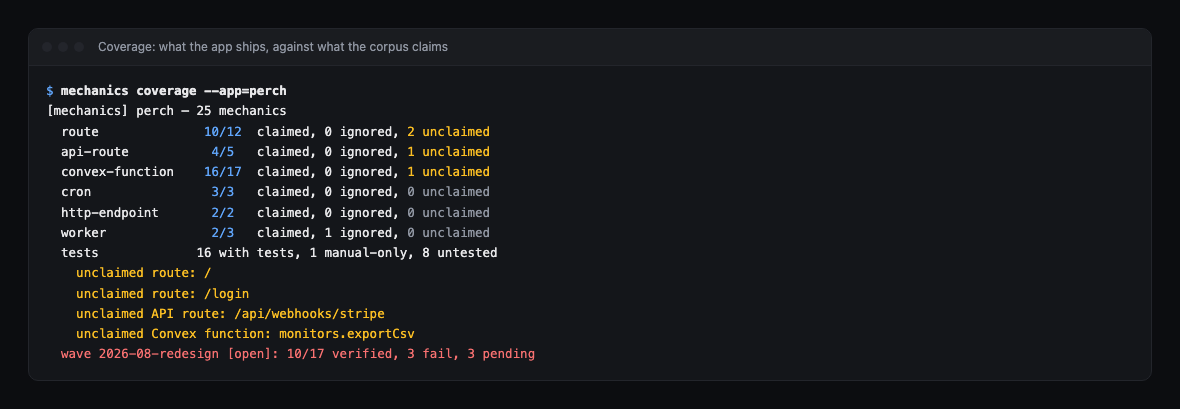
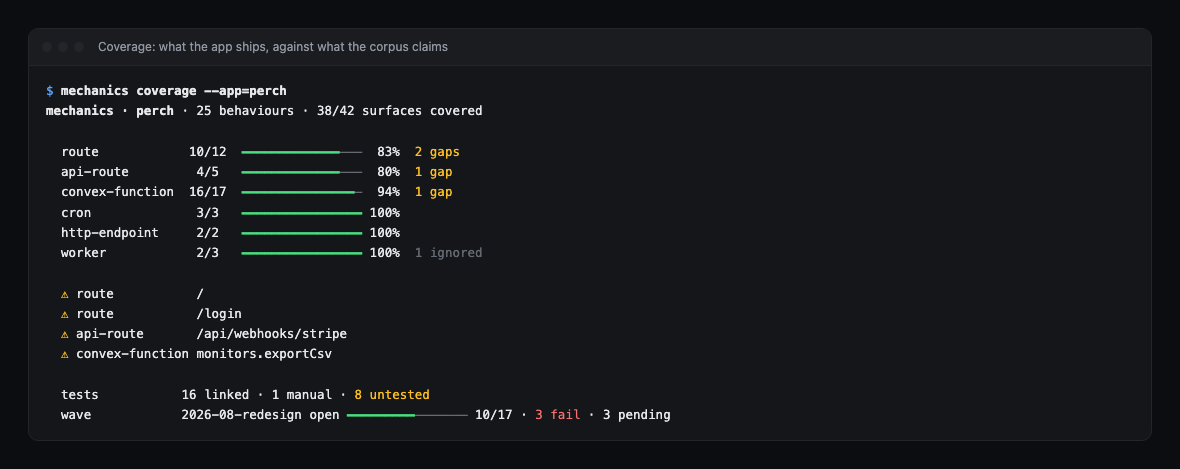
feat: redesign the coverage output, TUI and HTML (#4)
TUI — a bar and a percentage per surface kind, with each gap NAMED on its
own line instead of counted in a column. A count tells you a gap exists;
the name is the thing you act on, and needing a second command to see it
is why gaps get left.

The bar fills from claimed + IGNORED, matching the HTML report's
"covered" column. Filling from `claimed` alone would paint an explicitly
excused surface as a gap, which is the one thing the ignore list exists
to say it is not. The ratio beside it still counts claims, so a kind can
read `3/4` next to a full bar — the template test now pins that pairing,
because it looks like a bug until you know it is the point.

Colour is new, and off unless someone can see it: no TTY, `NO_COLOR`, or
`TERM=dumb` all yield plain text. `FORCE_COLOR` turns it back on for
callers piping deliberately; `NO_COLOR` beats it, since the user's opt
out should beat the program's opt in. No state is signalled by colour
alone — everything coloured also says what it is in words.

HTML — a summary band above the tables: one sentence stating what the
page concludes, then meters for the ratios it rests on. A reader arrives
asking whether the corpus is keeping up with the app, and the tables
answered that only after being read and summed. Clauses drop rather than
render as zeroes, and an app with no inventory gets different prose
instead of "100% of 0 surfaces" — the same lie the empty-bar rule
already existed to prevent.

Two things this turned up:
[…]

Changed region(s): [[0.0305, 0.176, 0.4576, 0.9095], [0.061, 0.088, 0.3966, 0.1467], [0.4576, 0.8802, 0.5797, 0.9095]]

diff --git a/cli.ts b/cli.ts
@@ -31,7 +31,12 @@ import { mapImpact } from "./impact";
 import { appDir, appPath } from "./layout";
 import { buildManifest, emitManifest, loadManifest, onboardedApps } from "./manifest";
 import { validateScreens } from "./screens";
-import type { MechanicsManifest, VerificationMethod, VerificationStatus } from "./types";
+import type {
+  CoverageBucket,
+  MechanicsManifest,
+  VerificationMethod,
+  VerificationStatus,
+} from "./types";
 import {
   applySpecResults,
   createSpecExecutor,
@@ -69,6 +74,33 @@ type Args = {
   html: boolean;
   out?: string;
 };
+
+/**
+ * Colour, only when someone is there to see it.
+ *
+ * Off when stdout is not a TTY, so a redirect, a pipe, or a CI log gets clean
+ * text — every test capture depends on that. `FORCE_COLOR` turns it back on
+ * for callers that are piping deliberately and can render the escapes anyway;
+ * `bun run docs:shots` uses it so the screenshots show the real terminal
+ * colours instead of a second guess at them.
+ *
+ * `NO_COLOR` wins over `FORCE_COLOR`: the convention is that the user's opt
+ * out beats the program's opt in.
+ *
+ * Colour never carries meaning on its own here — every state that is coloured
+ * also says what it is in words.
+ */
+const COLOUR =
+  process.env.NO_COLOR === undefined &&
+  process.env.TERM !== "dumb" &&
+  (process.env.FORCE_COLOR !== undefined || Boolean(process.stdout.isTTY));
+
+const paint = (code: string) => (s: string) => (COLOUR && s ? `[${code}m${s}[0m` : s);
+const bold = paint("1");
+const dim = paint("2");
+const red = paint("31");
+const green = paint("32");
+const yellow = paint("33");
 
 /**
  * Spellings that mean "print usage and succeed", not "run a command".
@@ -277,38 +309,95 @@ async function printDrift(slug: string, fresh: MechanicsManifest) {
 // coverage
 // ---------------------------------------------------------------------------
 
+/**
+ * A surface is accounted for if it is claimed OR explicitly ignored. Filling
+ * the bar from `claimed` alone would paint an excused surface as a gap, which
+ * is the one thing the ignore list exists to say it is not.
+ */
+function coveredCount(b: { claimed: number; ignored: number }): number {
+  return b.claimed + b.ignored;
+}
+
+/**
+ * Heavy rule for the covered span, light rule for what is left. Two glyphs of
+ * the same width, so the bar reads as one line rather than as a block of
+ * shading, and a terminal without colour still shows the split.
+ */
+function bar(n: number, d: number, width = 16): string {
+  const filled = d === 0 ? width : Math.round((n / d) * width);
+  return "━".repeat(filled) + "─".repeat(width - filled);
+}
+
 async function runCoverage(args: Args) {
   const slugs = await resolveSlugs(args);
   for (const slug of slugs) {
     const { manifest, errors } = await buildManifest(slug);
-    console.log(`[mechanics] ${slug} — ${manifest.mechanicCount} mechanics`);
+
     // Surfaces come from the app's adapters, so a project with a `worker` or
     // `migration` kind gets a row here without this file knowing about it.
-    for (const surface of manifest.surfaces) {
-      const b = manifest.coverage[surface.kind];
-      if (!b) continue;
+    const buckets = manifest.surfaces
+      .map((s) => ({ surface: s, b: manifest.coverage[s.kind] }))
+      .filter((r): r is { surface: (typeof manifest.surfaces)[number]; b: CoverageBucket } =>
+        Boolean(r.b)
+      );
+    const totals = buckets.reduce(
+      (a, r) => ({ covered: a.covered + coveredCount(r.b), total: a.total + r.b.total }),
+      { covered: 0, total: 0 }
+    );
+
+    console.log(
+      `${bold(`mechanics · ${slug}`)} · ${manifest.mechanicCount} behaviours · ${totals.covered}/${totals.total} surfaces covered`
+    );
+    console.log("");
+
+    const width = Math.max(9, ...buckets.map((r) => r.surface.kind.length));
+    for (const { surface, b } of buckets) {
+      const n = coveredCount(b);
+      const pct = b.total === 0 ? 100 : Math.round((n / b.total) * 100);
+      const note = b.unclaimed.length
+        ? yellow(`${b.unclaimed.length} gap${b.unclaimed.length === 1 ? "" : "s"}`)
+        : b.ignored
+          ? dim(`${b.ignored} ignored`)
+          : "";
       console.log(
-        `  ${surface.kind.padEnd(17)} ${String(b.claimed).padStart(3)}/${String(b.total).padEnd(3)} claimed, ${b.ignored} ignored, ${b.unclaimed.length} unclaimed`
+        `  ${surface.kind.padEnd(width)} ${String(b.claimed).padStart(3)}/${String(b.total).padEnd(3)} ${paintBar(n, b.total)} ${String(pct).padStart(3)}%  ${note}`.trimEnd()
       );
     }
-    console.log(
-      `  tests             ${manifest.testCoverage.withTests} with tests, ${manifest.testCoverage.manualOnly} manual-only, ${manifest.testCoverage.untested} untested`
+
+    // Named, one per line. A count tells you a gap exists; the name is what
+    // you act on, and needing a second command to see it is why gaps get left.
+    const gaps = buckets.flatMap(({ surface, b }) =>
+      b.unclaimed.map((item) => ({ kind: surface.kind, item }))
     );
-    for (const surface of manifest.surfaces) {
-      for (const item of manifest.coverage[surface.kind]?.unclaimed ?? []) {
-        console.log(`    unclaimed ${surface.label}: ${item}`);
-      }
+    if (gaps.length > 0) {
+      console.log("");
+      for (const g of gaps) console.log(`  ${yellow("⚠")} ${g.kind.padEnd(width)} ${g.item}`);
     }
-    for (const e of errors) console.log(`    (error) ${e}`);
+
+    console.log("");
+    const t = manifest.testCoverage;
+    console.log(
+      `  ${"tests".padEnd(width)} ${t.withTests} linked · ${t.manualOnly} manual · ${t.untested > 0 ? yellow(`${t.untested} untested`) : "0 untested"}`
+    );
 
     const { waves } = await loadWaves(slug);
     for (const wave of waves) {
       const s = summarizeWave(wave, manifest.mechanics);
+      const verified = s.counts.pass + s.counts["n-a"];
       console.log(
-        `  wave ${s.slug} [${s.status}]: ${s.counts.pass + s.counts["n-a"]}/${s.scopeSize} verified, ${s.counts.fail} fail, ${s.counts.pending} pending`
+        `  ${"wave".padEnd(width)} ${s.slug} ${s.status} ${paintBar(verified, s.scopeSize)} ${verified}/${s.scopeSize} · ${s.counts.fail > 0 ? red(`${s.counts.fail} fail`) : "0 fail"} · ${s.counts.pending} pending`
       );
     }
+
+    for (const e of errors) console.log(`  ${red("(error)")} ${e}`);
   }
+}
+
+/** Green for the covered span, dim for the remainder. */
+function paintBar(n: number, d: number): string {
+  const b = bar(n, d);
+  const cut = b.lastIndexOf("━") + 1;
+  return green(b.slice(0, cut)) + dim(b.slice(cut));
 }
 
 // ---------------------------------------------------------------------------

diff --git a/report.ts b/report.ts
@@ -80,6 +80,30 @@ td.num, th.num { text-align: right; font-variant-numeric: tabular-nums; }
 .bar.gap i { background: var(--warn); }
 /* Nothing to cover is not full coverage — an empty track says so. */
 .bar.empty { opacity: 0.45; }
+/* The summary band: the page's answer, above the page's evidence. */
+.band {
+  border: 1px solid var(--line); border-radius: 10px; background: var(--panel);
+  padding: 16px 18px 12px; margin-top: 14px;
+}
+.lede { margin: 0 0 14px; font-size: 15px; line-height: 1.5; max-width: 62ch; }
+.lede strong { font-weight: 650; }
+.meter-row {
+  display: grid; grid-template-columns: minmax(120px, 220px) 1fr 62px;
+  gap: 12px; align-items: center; padding: 4px 0; font-size: 12.5px;
+}
+.meter-l { color: var(--muted); }
+.meter {
+  display: block; height: 7px; border-radius: 4px; background: var(--line);
+  overflow: hidden;
+}
+.meter i { display: block; height: 100%; background: var(--ok); }
+.meter i.gap { background: var(--warn); }
+.meter.empty { opacity: 0.45; }
+.meter-n { text-align: right; color: var(--muted); }
+@media (max-width: 560px) {
+  .meter-row { grid-template-columns: 1fr 56px; }
+  .meter-row .meter { grid-column: 1 / -1; order: 3; }
+}
 .hint { font-weight: 400; text-transform: none; letter-spacing: 0; }
 .pill {
   display: inline-block; font-size: 11px; padding: 1px 7px; border-radius: 999px;
@@ -276,14 +300,81 @@ function wavesSection(app: ReportApp): string {
   </table></div>`;
 }
 
+/**
+ * The page's answer, before the page's evidence.
+ *
+ * A reader arrives with one question — is this corpus keeping up with the app?
+ * — and the tables below answer it only after they have been read and summed.
+ * The lede states it in words and the meters show the three ratios it rests
+ * on, so scrolling is what you do to check the claim rather than to find it.
+ *
+ * COVERED counts claimed + ignored: an explicitly excused surface is accounted
+ * for, and counting it as a gap would make the ignore list meaningless.
+ */
+function summaryBand(app: ReportApp): string {
+  const m = app.manifest;
+  const t = m.testCoverage;
+
+  const buckets = m.surfaces.map((s) => m.coverage[s.kind]).filter((b) => b !== undefined);
+  const totals = buckets.reduce(
+    (a, b) => ({ covered: a.covered + b.claimed + b.ignored, total: a.total + b.total }),
+    { covered: 0, total: 0 }
+  );
+  const gaps = buckets.reduce((n, b) => n + b.unclaimed.length, 0);
+  const pct = (n: number, d: number) => (d === 0 ? 100 : Math.round((n / d) * 100));
+
+  const open = app.waves
+    .map((w) => summarizeWave(w, m.mechanics))
+    .filter((s) => s.status === "open");
+  const failing = open.reduce((n, s) => n + s.counts.fail, 0);
+  const verified = open.reduce((n, s) => n + s.counts.pass + s.counts["n-a"], 0);
+  const inScope = open.reduce((n, s) => n + s.scopeSize, 0);
+
+  // Each clause is dropped rather than rendered as a zero: "0 gaps remain" is
+  // noise, and an app with no open wave should not be told about waves at all.
+  // An app with no inventory gets a different sentence entirely — "100% of 0
+  // surfaces" is the same lie the empty-bar rule exists to prevent.
+  const clauses = [
+    totals.total === 0
+      ? `<strong>${m.mechanicCount} behaviour${m.mechanicCount === 1 ? "" : "s"}</strong>, and no surface inventory to check them against.`
+      : `<strong>${m.mechanicCount} behaviour${m.mechanicCount === 1 ? "" : "s"}</strong> account for <strong>${pct(totals.covered, totals.total)}%</strong> of ${totals.total} shipped surface${totals.total === 1 ? "" : "s"}.`,
+    gaps > 0
+      ? `<span class="untested">${gaps} gap${gaps === 1 ? "" : "s"}</span> remain.`
+      : `Every surface is claimed or explicitly ignored.`,
+    open.length > 0
+      ? `${open.length === 1 ? "One wave is" : `${open.length} waves are`} open at <strong>${verified}/${inScope}</strong>${failing > 0 ? `, with <span class="st-fail">${failing} failing</span>` : ""}.`
+      : "",
+  ].filter(Boolean);
+
+  const meters: Array<[string, number, number]> = [
+    ["Surfaces covered", totals.covered, totals.total],
+    ["Behaviours with a linked test", t.withTests, m.mechanicCount],
+  ];
+  if (open.length > 0) meters.push(["Wave verified", verified, inScope]);
+
+  return `<div class="band">
+    <p class="lede">${clauses.join(" ")}</p>
+    ${meters
+      .map(
+        ([label, n, d]) => `<div class="meter-row">
+      <span class="meter-l">${escapeHtml(label)}</span>
+      <span class="meter${d === 0 ? " empty" : ""}"><i class="${n >= d ? "" : "gap"}" style="width:${d === 0 ? 0 : pct(n, d)}%"></i></span>
+      <span class="meter-n mono">${n}/${d}</span>
+    </div>`
+      )
+      .join("")}
+  </div>`;
+}
+
 function appSection(app: ReportApp): string {
   const m = app.manifest;
   const t = m.testCoverage;
   return `<section>
     <h2>${escapeHtml(m.appSlug)}</h2>
-    <p class="sub">${m.mechanicCount} mechanics in ${m.areas.length} area${m.areas.length === 1 ? "" : "s"} ·
-      ${t.withTests} with tests, ${t.manualOnly} manual-only,
+    <p class="sub">${m.areas.length} area${m.areas.length === 1 ? "" : "s"} ·
+      ${t.manualOnly} manual-only,
       <span class="${t.untested > 0 ? "untested" : ""}">${t.untested} untested</span></p>
+    ${summaryBand(app)}
     <h3>Surface coverage</h3>
     ${surfacesTable(m)}
     ${wavesSection(app)}

diff --git a/template.test.ts b/template.test.ts
@@ -90,10 +90,15 @@ describe("template", () => {
   it("reports coverage per declared kind, honouring the ignore glob", async () => {
     const { code, stdout } = await mechanics(["coverage", "--app=example"]);
     expect(code).toBe(0);
-    // 4 commands, 3 claimed, `_debug.ts` excused by the ignore glob.
-    expect(stdout).toMatch(/cli-command\s+3\/4\s+claimed, 1 ignored, 0 unclaimed/);
-    expect(stdout).toMatch(/scheduled-job\s+1\/1\s+claimed, 0 ignored, 0 unclaimed/);
-    expect(stdout).toContain("wave 2026-01-baseline");
+    // 4 commands, 3 claimed, `_debug.ts` excused by the ignore glob — so the
+    // kind is fully COVERED at 100% while the ratio still reads 3/4. Those two
+    // disagreeing is the point: the ratio counts claims, the bar counts claims
+    // plus the surfaces an ignore glob has excused.
+    expect(stdout).toMatch(/cli-command\s+3\/4\s+[━─]+\s+100%\s+1 ignored/);
+    expect(stdout).toMatch(/scheduled-job\s+1\/1\s+[━─]+\s+100%/);
+    // No gap lines: every unignored surface is claimed.
+    expect(stdout).not.toContain("⚠");
+    expect(stdout).toContain("2026-01-baseline");
   });
 
   it("drops the app prefix from every path in a single-app repo", async () => {

diff --git a/examples.test.ts b/examples.test.ts
@@ -87,10 +87,15 @@ describe("examples/perch", () => {
       expect(out, `coverage should report '${kind}'`).toContain(kind);
     }
     expect(out).toContain("1 ignored");
+    // Each gap is NAMED, not just counted — a count tells you a gap exists,
+    // the name is the thing you act on.
+    for (const item of ["/login", "/api/webhooks/stripe", "monitors.exportCsv"]) {
+      expect(out, `coverage should name the gap '${item}'`).toContain(item);
+    }
   });
 
   it("has a wave in flight, with failures on the board", async () => {
     const { out } = await mechanics(["coverage", "--app=perch"]);
-    expect(out).toMatch(/wave 2026-08-redesign \[open\]: \d+\/\d+ verified, [1-9]\d* fail/);
+    expect(out).toMatch(/2026-08-redesign open [━─]+ \d+\/\d+ · [1-9]\d* fail/);
   });
 });

diff --git a/report.test.ts b/report.test.ts
@@ -105,7 +105,13 @@ describe("renderReport", () => {
       OPTIONS
     );
     expect(html).toContain('class="bar empty"');
-    expect(html).not.toContain('style="width:100%"');
+    // Scoped to the empty bar itself rather than to the whole document. The
+    // summary band added a "behaviours with a linked test" meter, and 1/1 there
+    // is legitimately 100% — a document-wide search for that width would fail
+    // on a correct page and hide the thing this test is actually about, which
+    // is that a 0/0 surface renders no fill at all.
+    const emptyBar = html.slice(html.indexOf('<span class="bar empty"'));
+    expect(emptyBar.slice(0, emptyBar.indexOf("</span>"))).not.toContain("<i");
   });
 
   it("breaks out which mechanics are failing, not just the count", () => {
